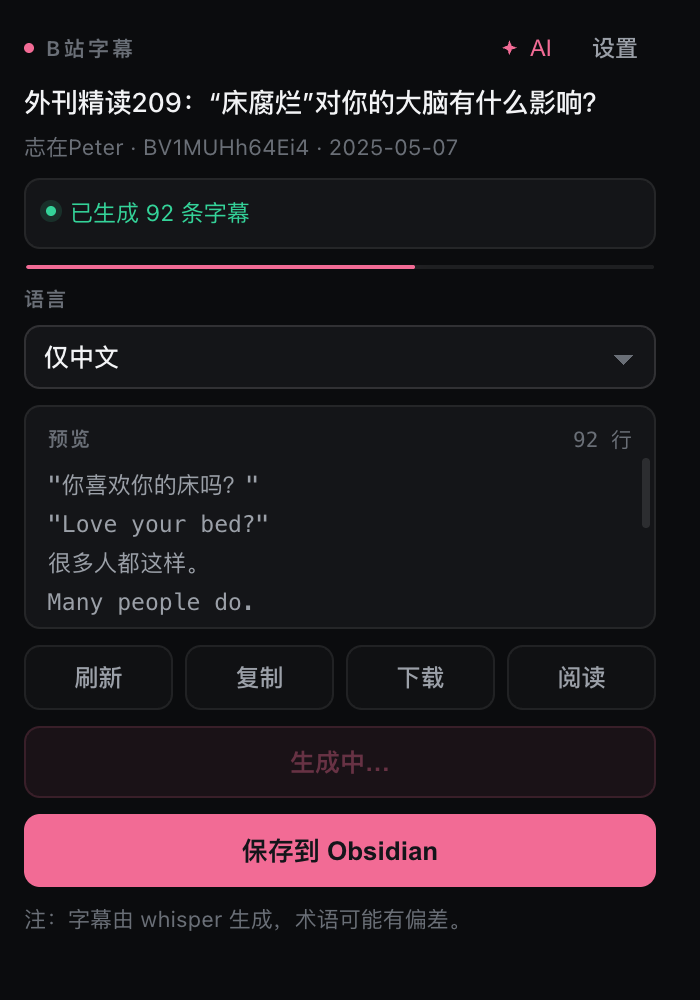
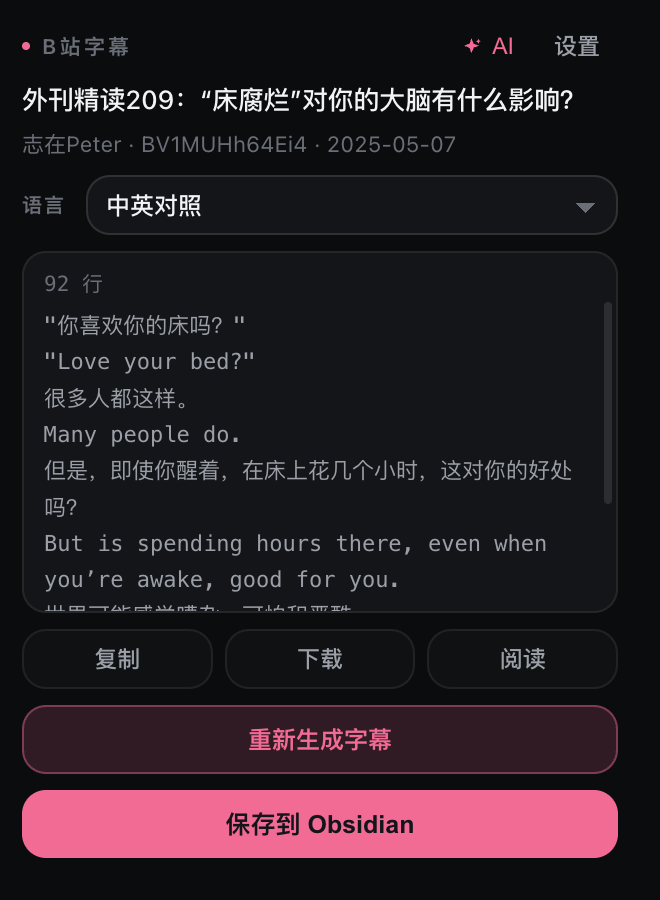
style: 弹窗再收紧一圈，并砍掉非核心元素
用户反馈：尺寸再小一圈、要更精致、四个角太方；以及按钮和文字
提示太多。

尺寸与圆角：
- 320x440（下限 288x372），上一版 340x480
- 圆角从 6/8px 放回 9/12px —— 上一版收过头，看起来是"方方正正"
- 控件高度、字级、留白整体收一档（下拉 32→30、按钮 7→6px 内边距、
  正文 11.5→11px），节奏统一到 8 的倍数

做减法（核心只有"把字幕存进 Obsidian"）：
- 去掉「刷新」按钮：弹窗打开本来就会抓，失败重开即可
- 去掉「预览」标签，只留右上角的行数
- 状态条改成按需出现：正常有内容时它只是把眼前的条数再报一遍，
  属于噪音；只在生成中／出错／无字幕／还没抓到内容时显示
- 把状态文案缩短（"已生成 92 条字幕"），不再是一整句指路话
- 动作区从四列收到三列

腾出的空间全给预览区：116px → 181px（多显示约 4 行）。

另外 .field 由竖排改成"标签+下拉"同一行，省一整行（20px）；
.preview-card 的 flex-basis 归零，剩余空间分配才准。

diff --git a/extension/popup.css b/extension/popup.css
@@ -22,8 +22,8 @@
   --ok: #34d399;
   --err: #f87171;
 
-  --r-sm: 6px;
-  --r-md: 8px;
+  --r-sm: 9px;
+  --r-md: 12px;
 }
 
 html,
@@ -34,10 +34,10 @@ body {
    * 弹窗尺寸由内容决定，不能用 vw/vh：那会形成循环依赖、解析成极小值，
    * 整个框会塌掉。固定尺寸 + 下限，放不下交给浏览器夹、容器滚动兜底。
    */
-  width: 340px;
-  min-width: 300px;
-  height: 480px;
-  min-height: 400px;
+  width: 320px;
+  min-width: 288px;
+  height: 440px;
+  min-height: 372px;
   background: var(--canvas);
   color: var(--text);
   /* UI 用 SF Pro，跟系统一致；技术性内容另用等宽，靠字体对比建立层次 */
@@ -49,9 +49,9 @@ body {
 
 .popup {
   height: 100%;
-  min-height: 400px;
+  min-height: 372px;
   box-sizing: border-box;
-  padding: 12px;
+  padding: 11px;
   display: flex;
   flex-direction: column;
   gap: 8px;
@@ -130,8 +130,8 @@ body {
 
 .brand::before {
   content: "";
-  width: 5px;
-  height: 5px;
+  width: 4px;
+  height: 4px;
   border-radius: 50%;
   background: var(--accent);
 }
@@ -183,7 +183,7 @@ body {
 
 .video-title {
   margin: 0;
-  font-size: 13.5px;
+  font-size: 13px;
   font-weight: 500;
   line-height: 1.35;
   letter-spacing: -0.1px;
@@ -215,13 +215,17 @@ body {
   display: flex;
   align-items: flex-start;
   gap: 7px;
-  font-size: 11.5px;
+  font-size: 11px;
   line-height: 1.5;
   color: var(--text-dim);
   background: var(--surface);
   border: 1px solid var(--line);
   border-radius: var(--r-md);
-  padding: 8px 10px;
+  padding: 7px 10px;
+}
+
+.status[hidden] {
+  display: none;
 }
 
 .status::before {
@@ -229,7 +233,7 @@ body {
   flex: 0 0 auto;
   width: 5px;
   height: 5px;
-  margin-top: 5px;
+  margin-top: 4px;
   border-radius: 50%;
   background: var(--text-faint);
 }
@@ -282,11 +286,12 @@ body {
 .field {
   flex: 0 0 auto;
   display: flex;
-  flex-direction: column;
-  gap: 6px;
+  align-items: center;
+  gap: 10px;
 }
 
 .field-label {
+  flex: 0 0 auto;
   font-size: 10px;
   font-weight: 600;
   letter-spacing: 1px;
@@ -294,22 +299,23 @@ body {
 }
 
 #subtitleSelect {
-  width: 100%;
-  height: 32px;
+  flex: 1 1 auto;
+  min-width: 0;
+  height: 30px;
   box-sizing: border-box;
   border: 1px solid var(--line-strong);
   border-radius: var(--r-md);
   padding: 0 9px;
   background: var(--surface);
   color: var(--text);
-  font-size: 12.5px;
+  font-size: 12px;
   font-weight: 500;
   cursor: pointer;
   transition: border-color 0.14s ease, box-shadow 0.14s ease;
   appearance: none;
   background-image: linear-gradient(45deg, transparent 50%, var(--text-faint) 50%),
     linear-gradient(135deg, var(--text-faint) 50%, transparent 50%);
-  background-position: calc(100% - 15px) 14px, calc(100% - 10px) 14px;
+  background-position: calc(100% - 15px) 13px, calc(100% - 10px) 13px;
   background-size: 5px 5px, 5px 5px;
   background-repeat: no-repeat;
 }
@@ -338,7 +344,8 @@ body {
 /* ---------- 预览 ---------- */
 
 .preview-card {
-  flex: 1 1 auto;
+  /* basis 归零，剩余空间才分得准；auto 会多占几个像素导致溢出 */
+  flex: 1 1 0;
   min-height: 72px;
   display: flex;
   flex-direction: column;
@@ -353,7 +360,7 @@ body {
   display: flex;
   align-items: center;
   justify-content: space-between;
-  padding: 9px 11px 0;
+  padding: 8px 10px 0;
 }
 
 .preview-count {
@@ -370,10 +377,10 @@ body {
   box-sizing: border-box;
   border: none;
   outline: none;
-  padding: 6px 11px 11px;
+  padding: 5px 10px 10px;
   resize: none;
-  font-size: 11.5px;
-  line-height: 1.7;
+  font-size: 11px;
+  line-height: 1.65;
   background: transparent;
   color: var(--text-dim);
   overflow-y: auto;
@@ -399,7 +406,7 @@ body {
 .actions {
   flex: 0 0 auto;
   display: grid;
-  grid-template-columns: repeat(4, minmax(0, 1fr));
+  grid-template-columns: repeat(3, minmax(0, 1fr));
   gap: 6px;
 }
 
@@ -407,8 +414,8 @@ body {
   border: 1px solid var(--line);
   background: rgba(255, 255, 255, 0.02);
   border-radius: var(--r-md);
-  padding: 7px 0;
-  font-size: 12px;
+  padding: 6px 0;
+  font-size: 11.5px;
   font-weight: 500;
   color: var(--text-dim);
   cursor: pointer;
@@ -428,7 +435,7 @@ body {
   background: var(--accent-glow);
   border-radius: var(--r-md);
   padding: 8px 0;
-  font-size: 12.5px;
+  font-size: 12px;
   font-weight: 600;
   color: var(--accent);
   cursor: pointer;
@@ -449,8 +456,8 @@ body {
   border: none;
   background: var(--accent);
   border-radius: var(--r-md);
-  padding: 9px 0;
-  font-size: 13px;
+  padding: 8px 0;
+  font-size: 12.5px;
   font-weight: 600;
   color: var(--accent-ink);
   cursor: pointer;

diff --git a/extension/popup.js b/extension/popup.js
@@ -8,7 +8,6 @@ const el = {
   previewCount: document.getElementById("previewCount"),
   subtitleSelect: document.getElementById("subtitleSelect"),
   preview: document.getElementById("preview"),
-  refreshBtn: document.getElementById("refreshBtn"),
   copyBtn: document.getElementById("copyBtn"),
   downloadBtn: document.getElementById("downloadBtn"),
   sendBtn: document.getElementById("sendBtn"),
@@ -90,10 +89,6 @@ function extractBvid(url) {
 }
 
 function bindEvents() {
-  el.refreshBtn.addEventListener("click", async () => {
-    await refreshFromTab();
-  });
-
   el.copyBtn.addEventListener("click", async () => {
     const payload = await ensurePayload();
     if (!payload?.markdown) {
@@ -357,6 +352,10 @@ function render(payload, { preserveStatus = false } = {}) {
     setMessage(`页面里是旧版脚本（${payload.contentVersion}），请刷新页面（⌘R / Ctrl+R）后再试。`);
   }
 
+  // 正常状态下内容都在眼前，再报一遍条数只是噪音；
+  // 只有需要用户注意时才显示状态条（生成中 / 出错 / 没有字幕）。
+  el.status.hidden = !shouldShowStatus(payload);
+
   setText(el.videoTitle, payload.title || "尚未识别视频");
   el.videoTitle.title = payload.title || "";
   setText(el.videoMeta, buildMetaLine(payload));
@@ -392,6 +391,21 @@ function render(payload, { preserveStatus = false } = {}) {
   el.preview.value = payload.subtitlePreview || "";
   setText(el.previewCount, countPreviewLines(payload.subtitlePreview));
   applyGenerationState(payload);
+}
+
+function shouldShowStatus(payload) {
+  if (!payload) {
+    return true;
+  }
+  if (payload.generating || payload.canGenerate) {
+    return true;
+  }
+  const statusText = String(payload.status || "");
+  if (/失败|错误|无字幕|不支持|请刷新/.test(statusText)) {
+    return true;
+  }
+  // 还没抓到任何内容时也别沉默
+  return !hasUsableSubtitle(payload);
 }
 
 function buildMetaLine(payload) {

diff --git a/extension/content.js b/extension/content.js
@@ -1253,7 +1253,7 @@ async function refreshClip() {
       startReaderPlayerObserver();
       syncReadingViewPlayback(true);
     }
-    setStatus("抓取完成，可以复制、下载或发送到 Obsidian。");
+    setStatus(`字幕已就绪，共 ${state.subtitleBody.length} 条`);
   } catch (error) {
     if (isStaleRunError(error)) {
       return;
@@ -1747,7 +1747,7 @@ async function runWhisperGeneration(outputOverride) {
       syncReadingViewPlayback(true);
     }
     finished = true;
-    setStatus(`已生成字幕，共 ${cues.length} 条，可以复制、下载或发送到 Obsidian。`);
+    setStatus(`已生成 ${cues.length} 条字幕`);
 
     // 结果已经拿到手，通知助手释放任务与临时文件
     sendRuntimeMessage({ type: "whisper-job-delete", helperUrl, jobId }).catch(() => {});

diff --git a/extension/popup.html b/extension/popup.html
@@ -39,14 +39,12 @@
 
       <section class="preview-card">
         <div class="preview-head">
-          <span class="field-label">预览</span>
           <span id="previewCount" class="preview-count"></span>
         </div>
         <textarea id="preview" readonly wrap="soft"></textarea>
       </section>
 
       <div class="actions">
-        <button id="refreshBtn" type="button">刷新</button>
         <button id="copyBtn" type="button">复制</button>
         <button id="downloadBtn" type="button">下载</button>
         <button id="readingViewBtn" type="button">阅读</button>
